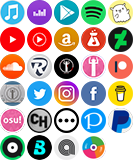
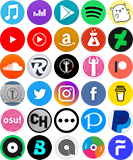
FLO

Changed region(s): [[0.812, 0.8438, 1.0, 1.0]]

diff --git a/index.html b/index.html
@@ -125,6 +125,9 @@
           <a class="platform-url" href="https://www.joox.com/id/artist/3N3EmLVl5_hLd4t9Q93a1Q=="  target="_blank">
             <i class="platform-icon i-joox"></i>JOOX
           </a>
+          <a class="platform-url" href="https://www.music-flo.com/detail/artist/edlinhlzn/track"  target="_blank">
+            <i class="platform-icon i-flo"></i>FLO
+          </a>
           <a class="platform-url" href="https://www.boomplay.com/artists/36124408"  target="_blank">
             <i class="platform-icon i-boomplay"></i>Boomplay
           </a>
@@ -133,9 +136,6 @@
           </a>
           <a class="platform-url" href="https://zingmp3.vn/nghe-si/WarDimension.IW7BW66I"  target="_blank">
             <i class="platform-icon i-zingmp3"></i>Zing mp3
-          </a>
-          <a class="platform-url" href=""  target="_blank">
-            <i class="platform-icon i-"></i>
           </a>
           <a class="platform-url" href=""  target="_blank">
             <i class="platform-icon i-"></i>

diff --git a/js/song.js b/js/song.js
@@ -647,6 +647,7 @@ function platformTemplate(song){
     ${platform(song.url[0].bandLab, "bandlab", "BandLab")}
     ${platform(song.url[0].soundCloud, "soundcloud", "SoundCloud")}
     ${platform(song.url[0].joox, "joox", "JOOX")}
+    ${platform(song.url[0].flo, "flo", "FLO")}
     ${platform(song.url[0].boomplay, "boomplay", "Boomplay")}
     ${platform(song.url[0].anghami, "anghami", "anghami")}
     ${platform(song.url[0].zingmp3, "zingmp3", "Zing mp3")}

diff --git a/css/theme.css b/css/theme.css
@@ -340,6 +340,9 @@ h3{
 .i-zingmp3{
   background-position: -81px -135px;
 }
+.i-flo{
+  background-position: -108px -135px;
+}
 .platform-url{
   text-decoration:none;
   color: #000;
